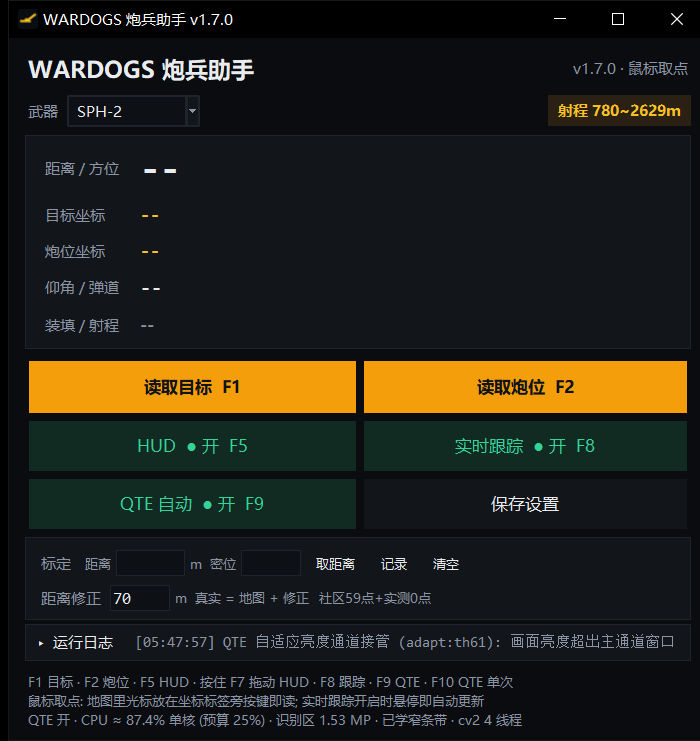
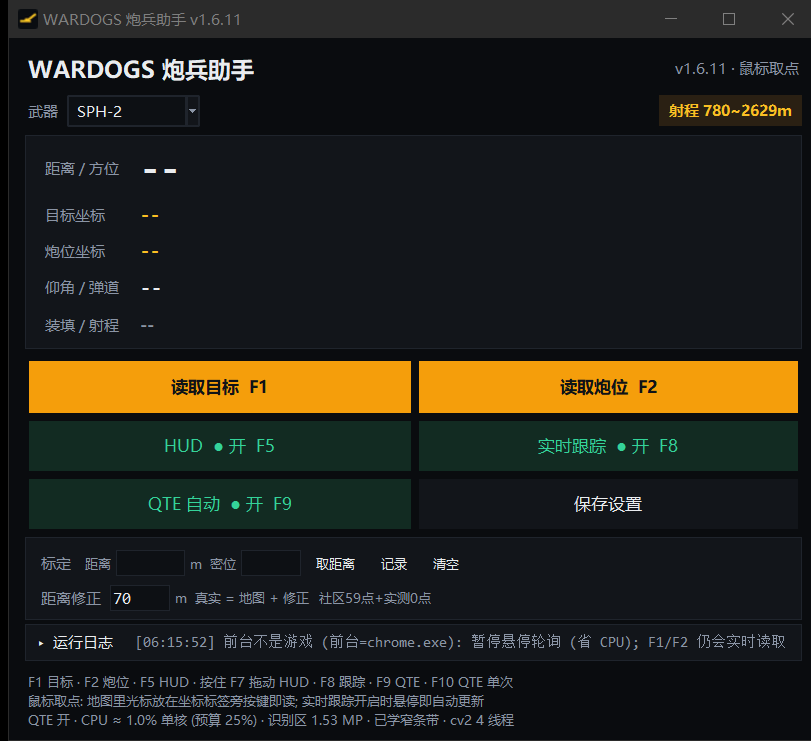
v1.6.11 替换包: UI+图标版并入 v1.6.11 编号 (code 172)
应用户要求放弃 v1.7.0 编号: 本包顶替已发布的 v1.6.11 (旧包 sha e7df1d64... 下架), 更新日志仍为「加快了QTE的速度」

diff --git a/gui_app.py b/gui_app.py
@@ -36,7 +36,7 @@ import artillery_tool as core
 
 # 版本号单一事实源: 窗口标题 / UI 副标题 / 单实例弹框都从这里取,
 # 免得三处各写各的 (用户截图里就出现过"标题 v1.6.6 / 副标题 v1.1"这种不一致)。
-APP_VER = "v1.7.0"
+APP_VER = "v1.6.11"
 
 # 必须在 tk.Tk() 之前: 让进程从第一行起就是 DPI 感知, 与 mss 截屏 /
 # GetPhysicalCursorPos 同处物理像素坐标系。否则 mss 会在后台轮询线程里
